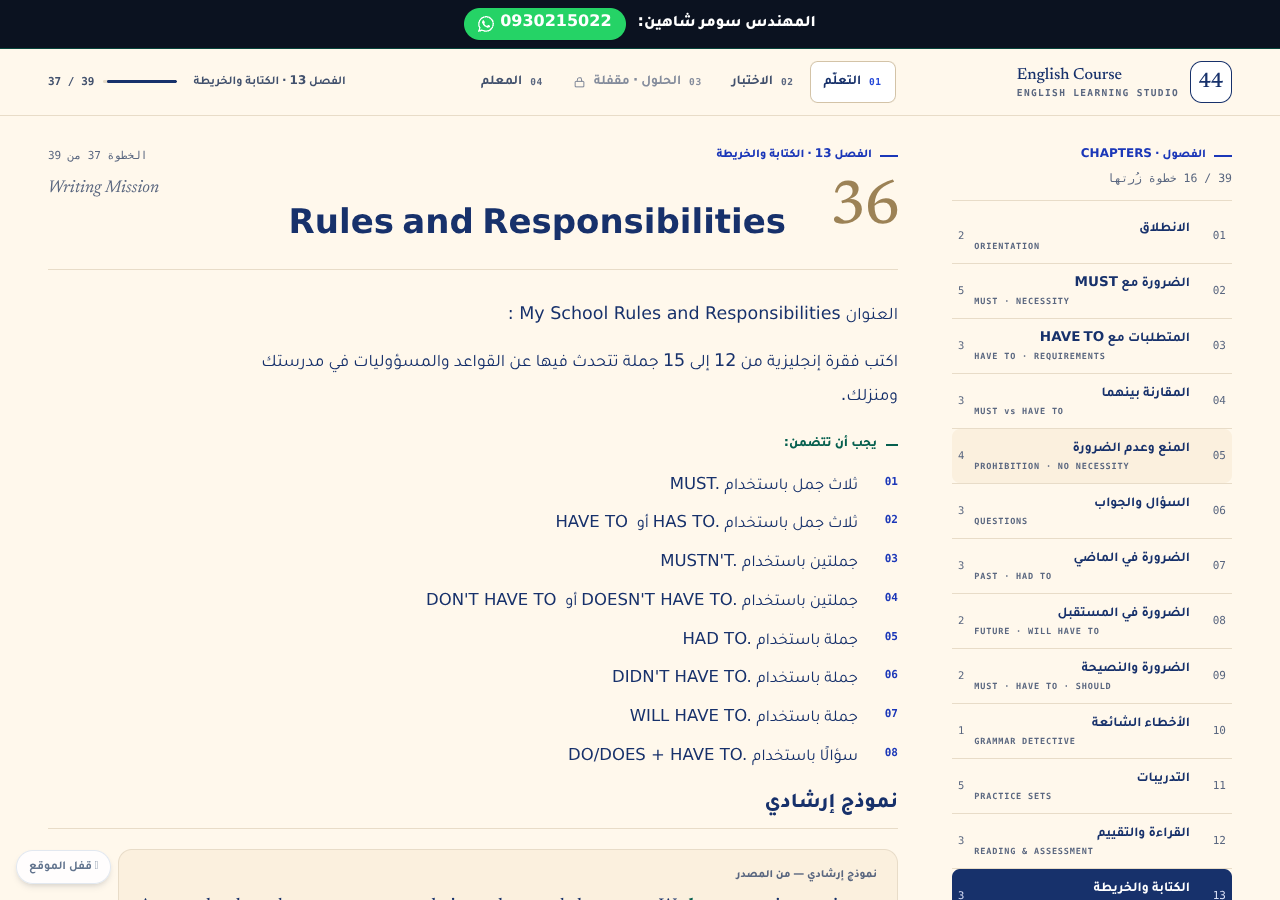
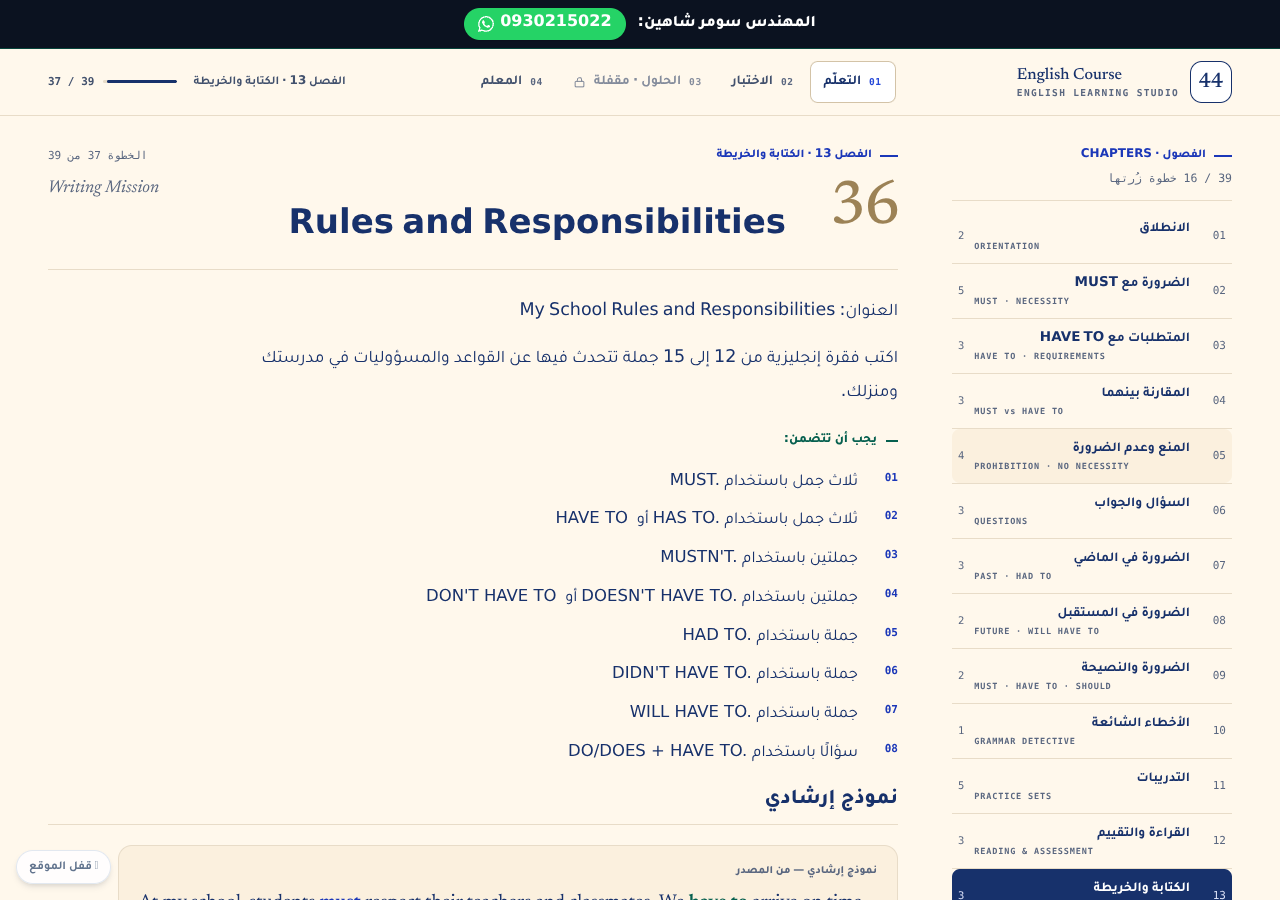
Lesson 44: keep "العنوان: …" style labels beside their line
An Arabic label followed by a whole English phrase is now two explicit runs, so
the colon no longer drifts to the far side of the line.

diff --git a/src/lessons/lesson44/kit44.tsx b/src/lessons/lesson44/kit44.tsx
@@ -34,6 +34,18 @@ export const isArabicOnly = (text: string) => ARABIC.test(text) && !LATIN.test(t
 export function Text44({ text, className = '' }: { text: string; className?: string }) {
   if (isEnglishOnly(text)) return <span dir="ltr" lang="en" className={`en44 ${className}`}>{text}</span>;
   if (!ARABIC.test(text)) return <span className={className}>{text}</span>;
+  // "العنوان: My School Rules …" — an Arabic label followed by a whole English
+  // phrase. The shared splitter keeps the colon inside the LTR run, which parks
+  // it at the far left of the line; two explicit runs keep it next to its label.
+  const labelled = text.match(/^([^:]*?):\s+([A-Za-z][\s\S]*)$/);
+  if (labelled && isArabicOnly(labelled[1]) && isEnglishOnly(labelled[2])) {
+    return (
+      <span className={className}>
+        <span className="labelAr44">{labelled[1]}:</span>{' '}
+        <span dir="ltr" lang="en" className="en44">{labelled[2]}</span>
+      </span>
+    );
+  }
   return <span className={className}><Rich text={text} /></span>;
 }
 
